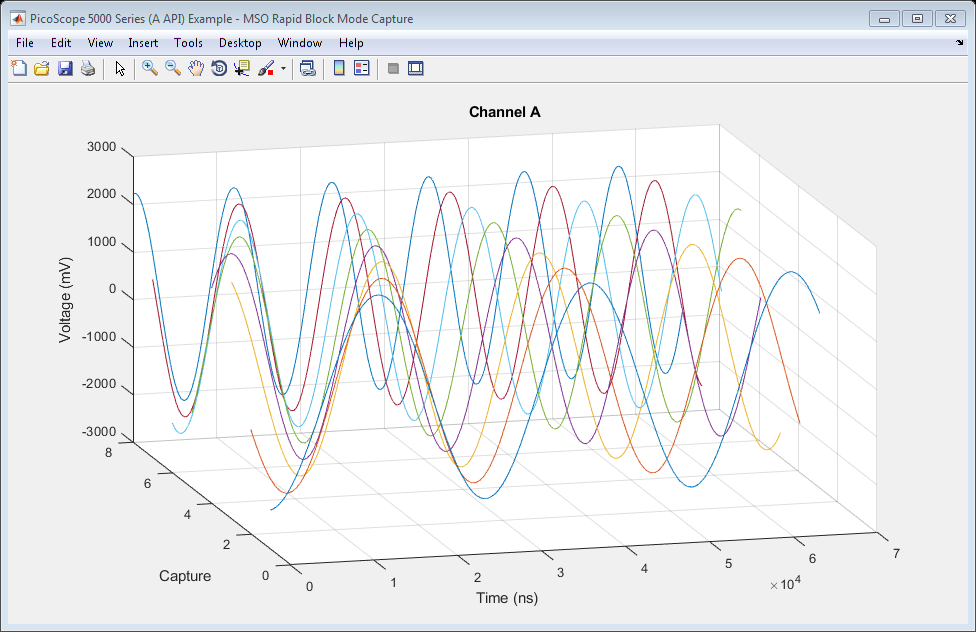
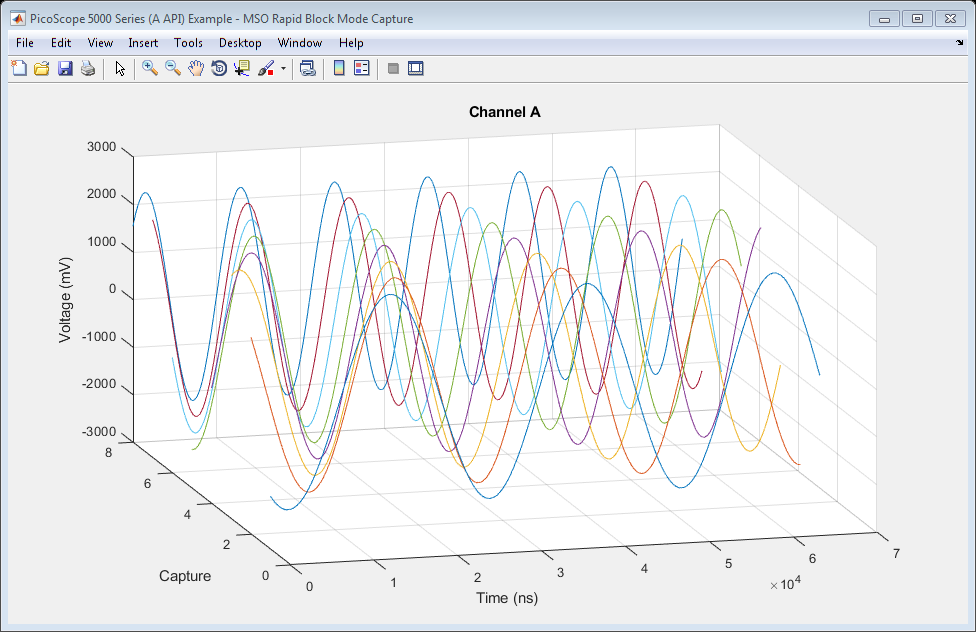
Add missing line for screensize

Changed region(s): [[0.1537, 0.2706, 0.8299, 0.8117], [0.123, 0.3006, 0.1537, 0.3608]]

diff --git a/help/html/PS5000A_ID_MSO_Rapid_Block_Plot3D_Example.html b/help/html/PS5000A_ID_MSO_Rapid_Block_Plot3D_Example.html
@@ -351,6 +351,8 @@ getRapidBlockData: Data succesfully retrieved.
 </pre><h2 id="14">Process data</h2><p>Plot data values in 3D showing history.</p><p>Calculate the time period over which samples were taken for each waveform. Use the <tt>timeIntNs</tt> output from the <tt>ps5000aGetTimebase2()</tt> function or calculate the sampling interval using the main Programmer's Guide. Take into account the downsampling ratio used.</p><pre class="codeinput">timeNs = double(timeIntervalNanoseconds) * downsamplingRatio * double(0:numSamples - 1);
 </pre><p><b>Analog data</b></p><pre class="codeinput"><span class="comment">% Channel A</span>
 
+scrsz = get(groot,<span class="string">'ScreenSize'</span>);
+
 analogFigure = figure(<span class="string">'Name'</span>,<span class="string">'PicoScope 5000 Series (A API) Example - MSO Rapid Block Mode Capture'</span>, <span class="keyword">...</span>
     <span class="string">'NumberTitle'</span>, <span class="string">'off'</span>, <span class="string">'Position'</span>, [scrsz(3)/2 + 1 scrsz(4)/4 scrsz(3)/2 scrsz(4)/2]);
 
@@ -708,6 +710,8 @@ timeNs = double(timeIntervalNanoseconds) * downsamplingRatio * double(0:numSampl
 % *Analog data*
 
 % Channel A
+
+scrsz = get(groot,'ScreenSize');
 
 analogFigure = figure('Name','PicoScope 5000 Series (A API) Example - MSO Rapid Block Mode Capture', ...
     'NumberTitle', 'off', 'Position', [scrsz(3)/2 + 1 scrsz(4)/4 scrsz(3)/2 scrsz(4)/2]);

diff --git a/examples/PS5000A_ID_MSO_Rapid_Block_Plot3D_Example.m b/examples/PS5000A_ID_MSO_Rapid_Block_Plot3D_Example.m
@@ -280,6 +280,8 @@ timeNs = double(timeIntervalNanoseconds) * downsamplingRatio * double(0:numSampl
 
 % Channel A
 
+scrsz = get(groot,'ScreenSize');
+
 analogFigure = figure('Name','PicoScope 5000 Series (A API) Example - MSO Rapid Block Mode Capture', ...
     'NumberTitle', 'off', 'Position', [scrsz(3)/2 + 1 scrsz(4)/4 scrsz(3)/2 scrsz(4)/2]);
 
